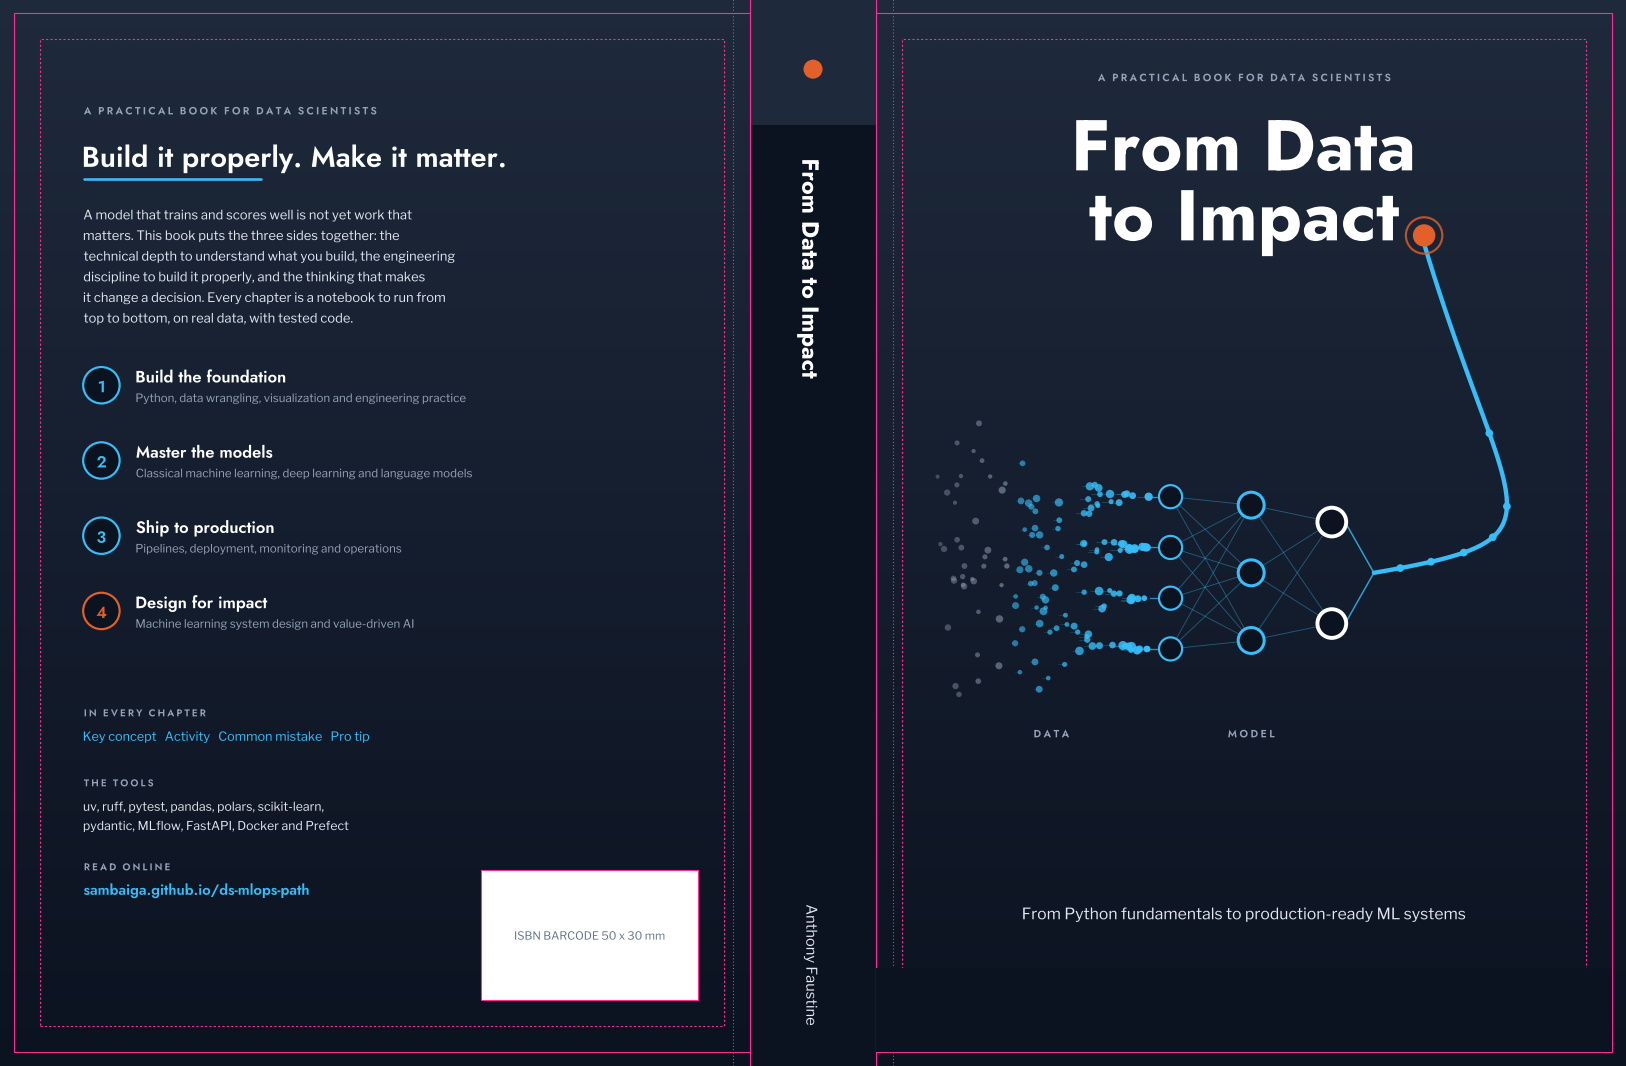
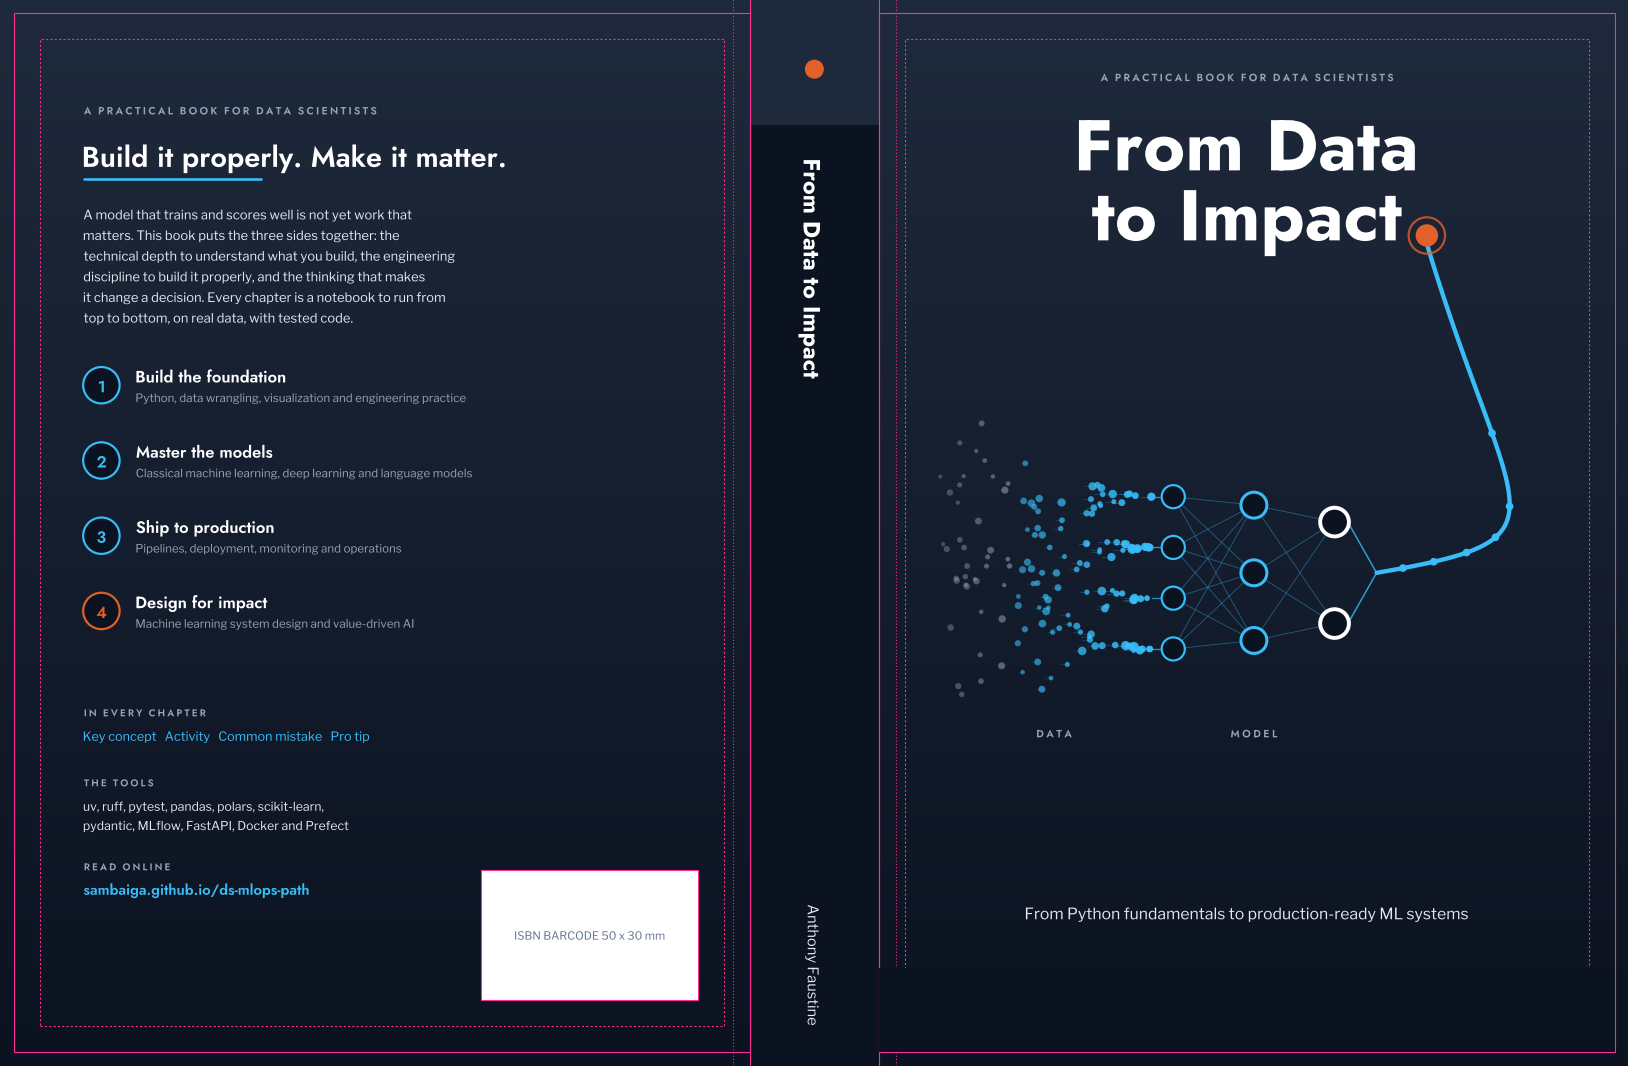
feat(print): charts and tables keep a static form, so the print edition shows them
* feat(print): lets-plot charts keep a static SVG twin, so the print edition shows the charts

* feat(cover): rebuild the wrap for the 525 pages of the print edition, a 30.0 mm spine

* feat(print): static LaTeX tables beside the HTML, started for every notebook by the print script, and the wrap for 520 pages

diff --git a/ark/plot/static.py b/ark/plot/static.py
@@ -1,0 +1,228 @@
+"""Give charts and tables a static twin, so that the print edition shows what the web edition animates.
+
+A Lets-Plot chart, a Great Tables table and a pandas data frame display themselves as HTML, which a browser draws and a
+PDF cannot: without this module the PDF holds the text of the Python object for a chart and nothing at all for a table.
+This module adds to each a second representation next to the HTML, an SVG for a chart and LaTeX for a table. The
+notebook output then holds both, and Quarto takes the HTML for the web and the static form for print.
+
+Call :func:`enable` once, before the first output. The print edition does it for every notebook through the startup
+file of ``.ipython`` (see ``scripts/print.sh``), so that no notebook has to remember it.
+"""
+
+import re
+
+import pandas as pd
+
+HTML = "text/html"
+SVG = "image/svg+xml"
+LATEX = "text/latex"
+#: How a table is fitted to the page: small type, scaled down only when it is wider than the text.
+FIT = "\\begin{center}\n\\small\n%s\\begin{adjustbox}{max width=\\linewidth}\n%s\n\\end{adjustbox}\n%s\\end{center}\n"
+TABLE = re.compile(
+    r"\\begin\{table\}.*?\n(.*?)\\begin\{tabular\*?\}(.*?)\\end\{tabular\*?\}(.*?)\\end\{table\}", re.DOTALL
+)
+CAPTION = re.compile(r"\\caption\*\{\s*(.*?)\s*\}\s*(?=\\fontsize|\\begin|$)", re.DOTALL)
+
+
+def fitted(latex: str, caption: str = "") -> str:
+    """Fit a LaTeX table to the page, with its title above it and its notes below.
+
+    Great Tables writes a floating ``table`` with a ``caption*``, which cannot sit inside a box that scales the table.
+    The title is set above the box, the notes below it, and the floating environment is dropped.
+
+    Args:
+        latex: A ``tabular`` as LaTeX, or a Great Tables ``table`` that holds one.
+        caption: A line to set above the table, if the LaTeX does not carry its own title.
+
+    Returns:
+        The table inside a centred, scaled box.
+    """
+    match = TABLE.search(latex)
+    if match is None:
+        return FIT % (caption, latex, "")
+    head, body, notes = match.groups()
+    title = CAPTION.search(head)
+    above = f"{title.group(1)}\\par\\smallskip\n" if title else caption
+    tabular = latex[match.start(2) - len("\\begin{tabular*}") : match.end(2) + len("\\end{tabular*}")]
+    tabular = tabular if tabular.startswith("\\begin{tabular") else f"\\begin{{tabular*}}{body}\\end{{tabular*}}"
+    return FIT % (above, tabular, notes.strip() + "\n" if notes.strip() else "")
+
+
+MARKDOWN = re.compile(r"`([^`]+)`|\*\*([^*]+)\*\*|\*([^*]+)\*")
+
+
+def markdown_latex(text: str) -> str:
+    """Convert the markdown of a table label to LaTeX: code, bold and italic, with everything else escaped.
+
+    Great Tables cannot write ``md()`` text as LaTeX, so a table that labels a column with markdown would stay out of
+    the print edition. This covers the three marks that labels use.
+
+    Args:
+        text: The markdown text.
+
+    Returns:
+        The text as LaTeX.
+    """
+    from great_tables._text import _latex_escape
+
+    parts, last = [], 0
+    for match in MARKDOWN.finditer(text):
+        parts.append(_latex_escape(text[last : match.start()]))
+        code, bold, italic = match.groups()
+        parts.append(
+            f"\\texttt{{{_latex_escape(code)}}}"
+            if code
+            else f"\\textbf{{{_latex_escape(bold)}}}"
+            if bold
+            else f"\\textit{{{_latex_escape(italic)}}}"
+        )
+        last = match.end()
+    parts.append(_latex_escape(text[last:]))
+    return "".join(parts)
+
+
+def _limit(bundle: dict[str, str], include, exclude) -> dict[str, str]:
+    """Keep the representations that were asked for.
+
+    Args:
+        bundle: The representations by media type.
+        include: The media types asked for, as IPython passes them; ``None`` asks for all.
+        exclude: The media types not wanted; ``None`` excludes none.
+
+    Returns:
+        The representations that remain.
+    """
+    if include:
+        bundle = {mime: value for mime, value in bundle.items() if mime in include}
+    if exclude:
+        bundle = {mime: value for mime, value in bundle.items() if mime not in exclude}
+    return bundle
+
+
+def chart_bundle(chart, include=None, exclude=None) -> dict[str, str]:
+    """Return the representations of a chart: its interactive HTML and a static SVG.
+
+    Args:
+        chart: A Lets-Plot chart or a grid of charts.
+        include: The representations asked for, as IPython passes them; ``None`` asks for all.
+        exclude: The representations not wanted; ``None`` excludes none.
+
+    Returns:
+        The HTML and the SVG, as far as ``include`` and ``exclude`` allow.
+    """
+    return _limit({HTML: chart._repr_html_(), SVG: chart.to_svg()}, include, exclude)
+
+
+def plain_cells(frame: pd.DataFrame, width: int = 40) -> pd.DataFrame:
+    """Shorten the cells of a data frame that hold long text or lists, so that they fit a printed column.
+
+    Args:
+        frame: The data frame.
+        width: The most characters a cell keeps.
+
+    Returns:
+        A copy in which every cell that is not a plain number or short text is its text, cut to ``width`` characters.
+    """
+
+    def cut(value):
+        text = str(value)
+        return text if len(text) <= width else text[: width - 3] + "..."
+
+    return frame.map(lambda value: value if isinstance(value, int | float) else cut(value))
+
+
+def table_bundle(table, include=None, exclude=None) -> dict[str, str]:
+    """Return the representations of a Great Tables table: its HTML and the same table in LaTeX.
+
+    Great Tables cannot write every feature as LaTeX (row groups, summary rows and sparklines). A table that uses one is
+    printed as its data, with the title above it, so that the print edition holds the numbers; the web edition keeps
+    the full table.
+
+    Args:
+        table: A Great Tables table.
+        include: The representations asked for, as IPython passes them; ``None`` asks for all.
+        exclude: The representations not wanted; ``None`` excludes none.
+
+    Returns:
+        The HTML and the LaTeX, as far as ``include`` and ``exclude`` allow.
+    """
+    try:
+        latex = fitted(table.as_latex())
+    except NotImplementedError:
+        data = table._tbl_data
+        data = data if isinstance(data, pd.DataFrame) else data.to_pandas()
+        latex = fitted(
+            plain_cells(shown(data)).to_latex(escape=True, float_format=lambda v: f"{v:.6g}", na_rep="", index=False)
+        )
+    return _limit({HTML: table._repr_html_(), LATEX: latex}, include, exclude)
+
+
+def shown(frame: pd.DataFrame) -> pd.DataFrame:
+    """Return the rows of a data frame that its display shows: all of them, or the first and last few with a gap.
+
+    Args:
+        frame: The data frame.
+
+    Returns:
+        The frame itself when it is short enough, otherwise its head, a row of ellipses and its tail, as pandas does.
+    """
+    limit = pd.get_option("display.max_rows")
+    if limit is None or len(frame) <= limit:
+        return frame
+    edge = (pd.get_option("display.min_rows") or 10) // 2
+    gap = pd.DataFrame({column: ["..."] for column in frame.columns}, index=["..."]).astype(object)
+    return pd.concat([frame.head(edge).astype(object), gap, frame.tail(edge).astype(object)])
+
+
+def frame_bundle(frame: pd.DataFrame, include=None, exclude=None) -> dict[str, str]:
+    """Return the representations of a data frame: its HTML and the same rows in LaTeX.
+
+    Args:
+        frame: A data frame.
+        include: The representations asked for, as IPython passes them; ``None`` asks for all.
+        exclude: The representations not wanted; ``None`` excludes none.
+
+    Returns:
+        The HTML and the LaTeX, as far as ``include`` and ``exclude`` allow.
+    """
+    latex = shown(frame).to_latex(escape=True, float_format=lambda value: f"{value:.6g}", na_rep="")
+    return _limit({HTML: frame._repr_html_(), LATEX: fitted(latex)}, include, exclude)
+
+
+def polars_bundle(frame, include=None, exclude=None) -> dict[str, str]:
+    """Return the representations of a polars data frame: its HTML and the same rows in LaTeX.
+
+    Args:
+        frame: A polars data frame.
+        include: The representations asked for, as IPython passes them; ``None`` asks for all.
+        exclude: The representations not wanted; ``None`` excludes none.
+
+    Returns:
+        The HTML and the LaTeX, as far as ``include`` and ``exclude`` allow.
+    """
+    latex = shown(frame.to_pandas()).to_latex(
+        escape=True, float_format=lambda value: f"{value:.6g}", na_rep="", index=False
+    )
+    return _limit({HTML: frame._repr_html_(), LATEX: fitted(latex)}, include, exclude)
+
+
+def enable() -> None:
+    """Make charts and tables display themselves as HTML and in a static form for print.
+
+    Calling it more than once has no further effect.
+    """
+    from great_tables import GT
+    import great_tables._text
+    from lets_plot.plot.core import PlotSpec
+    from lets_plot.plot.subplots import SupPlotsSpec
+
+    for kind in (PlotSpec, SupPlotsSpec):
+        kind._repr_mimebundle_ = chart_bundle
+    great_tables._text._md_latex = markdown_latex
+    GT._repr_mimebundle_ = table_bundle
+    pd.DataFrame._repr_mimebundle_ = frame_bundle
+    try:
+        import polars as pl
+    except ImportError:
+        return
+    pl.DataFrame._repr_mimebundle_ = polars_bundle

diff --git a/tests/plot/test_static.py b/tests/plot/test_static.py
@@ -1,0 +1,101 @@
+"""Charts and tables carry a static twin once the hook is on."""
+
+from great_tables import GT, md
+from lets_plot import aes, geom_point, gggrid, ggplot
+import pandas as pd
+import pytest
+
+from ark.plot import static
+
+DATA = pd.DataFrame({"x": [1, 2, 3], "y": [1, 4, 9]})
+
+
+@pytest.fixture(autouse=True)
+def hook():
+    static.enable()
+
+
+def chart():
+    return ggplot(DATA, aes("x", "y")) + geom_point()
+
+
+def test_a_chart_gives_html_and_svg():
+    bundle = chart()._repr_mimebundle_()
+    assert set(bundle) == {static.HTML, static.SVG}
+    assert bundle[static.SVG].lstrip().startswith("<svg")
+    assert "<script" in bundle[static.HTML]
+
+
+def test_a_grid_of_charts_gives_both_too():
+    assert set(gggrid([chart(), chart()])._repr_mimebundle_()) == {static.HTML, static.SVG}
+
+
+def test_include_and_exclude_limit_the_representations():
+    assert set(chart()._repr_mimebundle_(include={static.SVG})) == {static.SVG}
+    assert set(chart()._repr_mimebundle_(exclude={static.SVG})) == {static.HTML}
+
+
+def test_a_great_tables_table_gives_html_and_latex():
+    table = GT(pd.DataFrame({"course": ["A", "B"], "score": [71.234, 64.5]})).fmt_number("score", decimals=1)
+    bundle = table._repr_mimebundle_()
+    assert set(bundle) == {static.HTML, static.LATEX}
+    assert "\\begin{tabular" in bundle[static.LATEX]
+    assert "71.2" in bundle[static.LATEX]
+    assert "adjustbox" in bundle[static.LATEX]
+    assert "\\begin{table}" not in bundle[static.LATEX]  # a float cannot sit inside the scaled box
+
+
+def test_a_data_frame_gives_html_and_latex_with_escaped_text_and_short_numbers():
+    frame = pd.DataFrame({"course": ["A_x"], "score": [71.234]})
+    bundle = frame._repr_mimebundle_()
+    assert set(bundle) == {static.HTML, static.LATEX}
+    assert "A\\_x" in bundle[static.LATEX]
+    assert "71.234 " in bundle[static.LATEX]
+    assert "71.234000" not in bundle[static.LATEX]
+    assert "\\toprule" in bundle[static.LATEX]
+
+
+def test_a_long_frame_is_shown_as_pandas_shows_it_with_a_gap():
+    frame = pd.DataFrame({"n": range(200)})
+    rows = static.shown(frame)
+    assert len(rows) == 5 + 1 + 5
+    assert rows.index[5] == "..."
+    assert static.shown(DATA) is DATA
+
+
+def test_enabling_twice_changes_nothing():
+    first = pd.DataFrame._repr_mimebundle_
+    static.enable()
+    assert pd.DataFrame._repr_mimebundle_ is first
+
+
+def test_a_title_and_a_source_note_are_set_around_the_scaled_table():
+    table = GT(DATA).tab_header(title="Squares").tab_source_note("Source: test")
+    latex = table._repr_mimebundle_()[static.LATEX]
+    assert latex.index("Squares") < latex.index("\\begin{adjustbox}") < latex.index("Source: test")
+
+
+def test_markdown_labels_become_latex_instead_of_stopping_the_table():
+    assert static.markdown_latex("**MAE** of `fit_1` & more") == "\\textbf{MAE} of \\texttt{fit\\_1} \\& more"
+    table = GT(DATA).cols_label(x=md("**x** value"))
+    assert "\\textbf{x} value" in table._repr_mimebundle_()[static.LATEX]
+
+
+def test_a_polars_frame_gives_html_and_latex():
+    polars = pytest.importorskip("polars")
+    bundle = polars.DataFrame({"course": ["A_x"], "score": [71.234]})._repr_mimebundle_()
+    assert set(bundle) == {static.HTML, static.LATEX}
+    assert "A\\_x" in bundle[static.LATEX]
+
+
+def test_a_table_that_latex_cannot_write_is_printed_as_its_data():
+    table = GT(pd.DataFrame({"a": [1.0, 2.0], "b": [4.0, 5.0]})).grand_summary_rows(fns={"Mean": lambda x: x.mean()})
+    bundle = table._repr_mimebundle_()
+    assert set(bundle) == {static.HTML, static.LATEX}
+    assert "\\begin{tabular" in bundle[static.LATEX]
+    assert "5" in bundle[static.LATEX]
+
+
+def test_long_cells_are_cut_to_fit_a_printed_column():
+    frame = pd.DataFrame({"values": [[1.5] * 40]})
+    assert len(static.plain_cells(frame).iloc[0, 0]) == 40

diff --git a/.ipython/profile_default/startup/00-ark-static.py b/.ipython/profile_default/startup/00-ark-static.py
@@ -1,0 +1,5 @@
+"""Give charts and tables a static twin for the print edition; loaded by IPython when IPYTHONDIR points here."""
+
+from ark.plot.static import enable
+
+enable()
